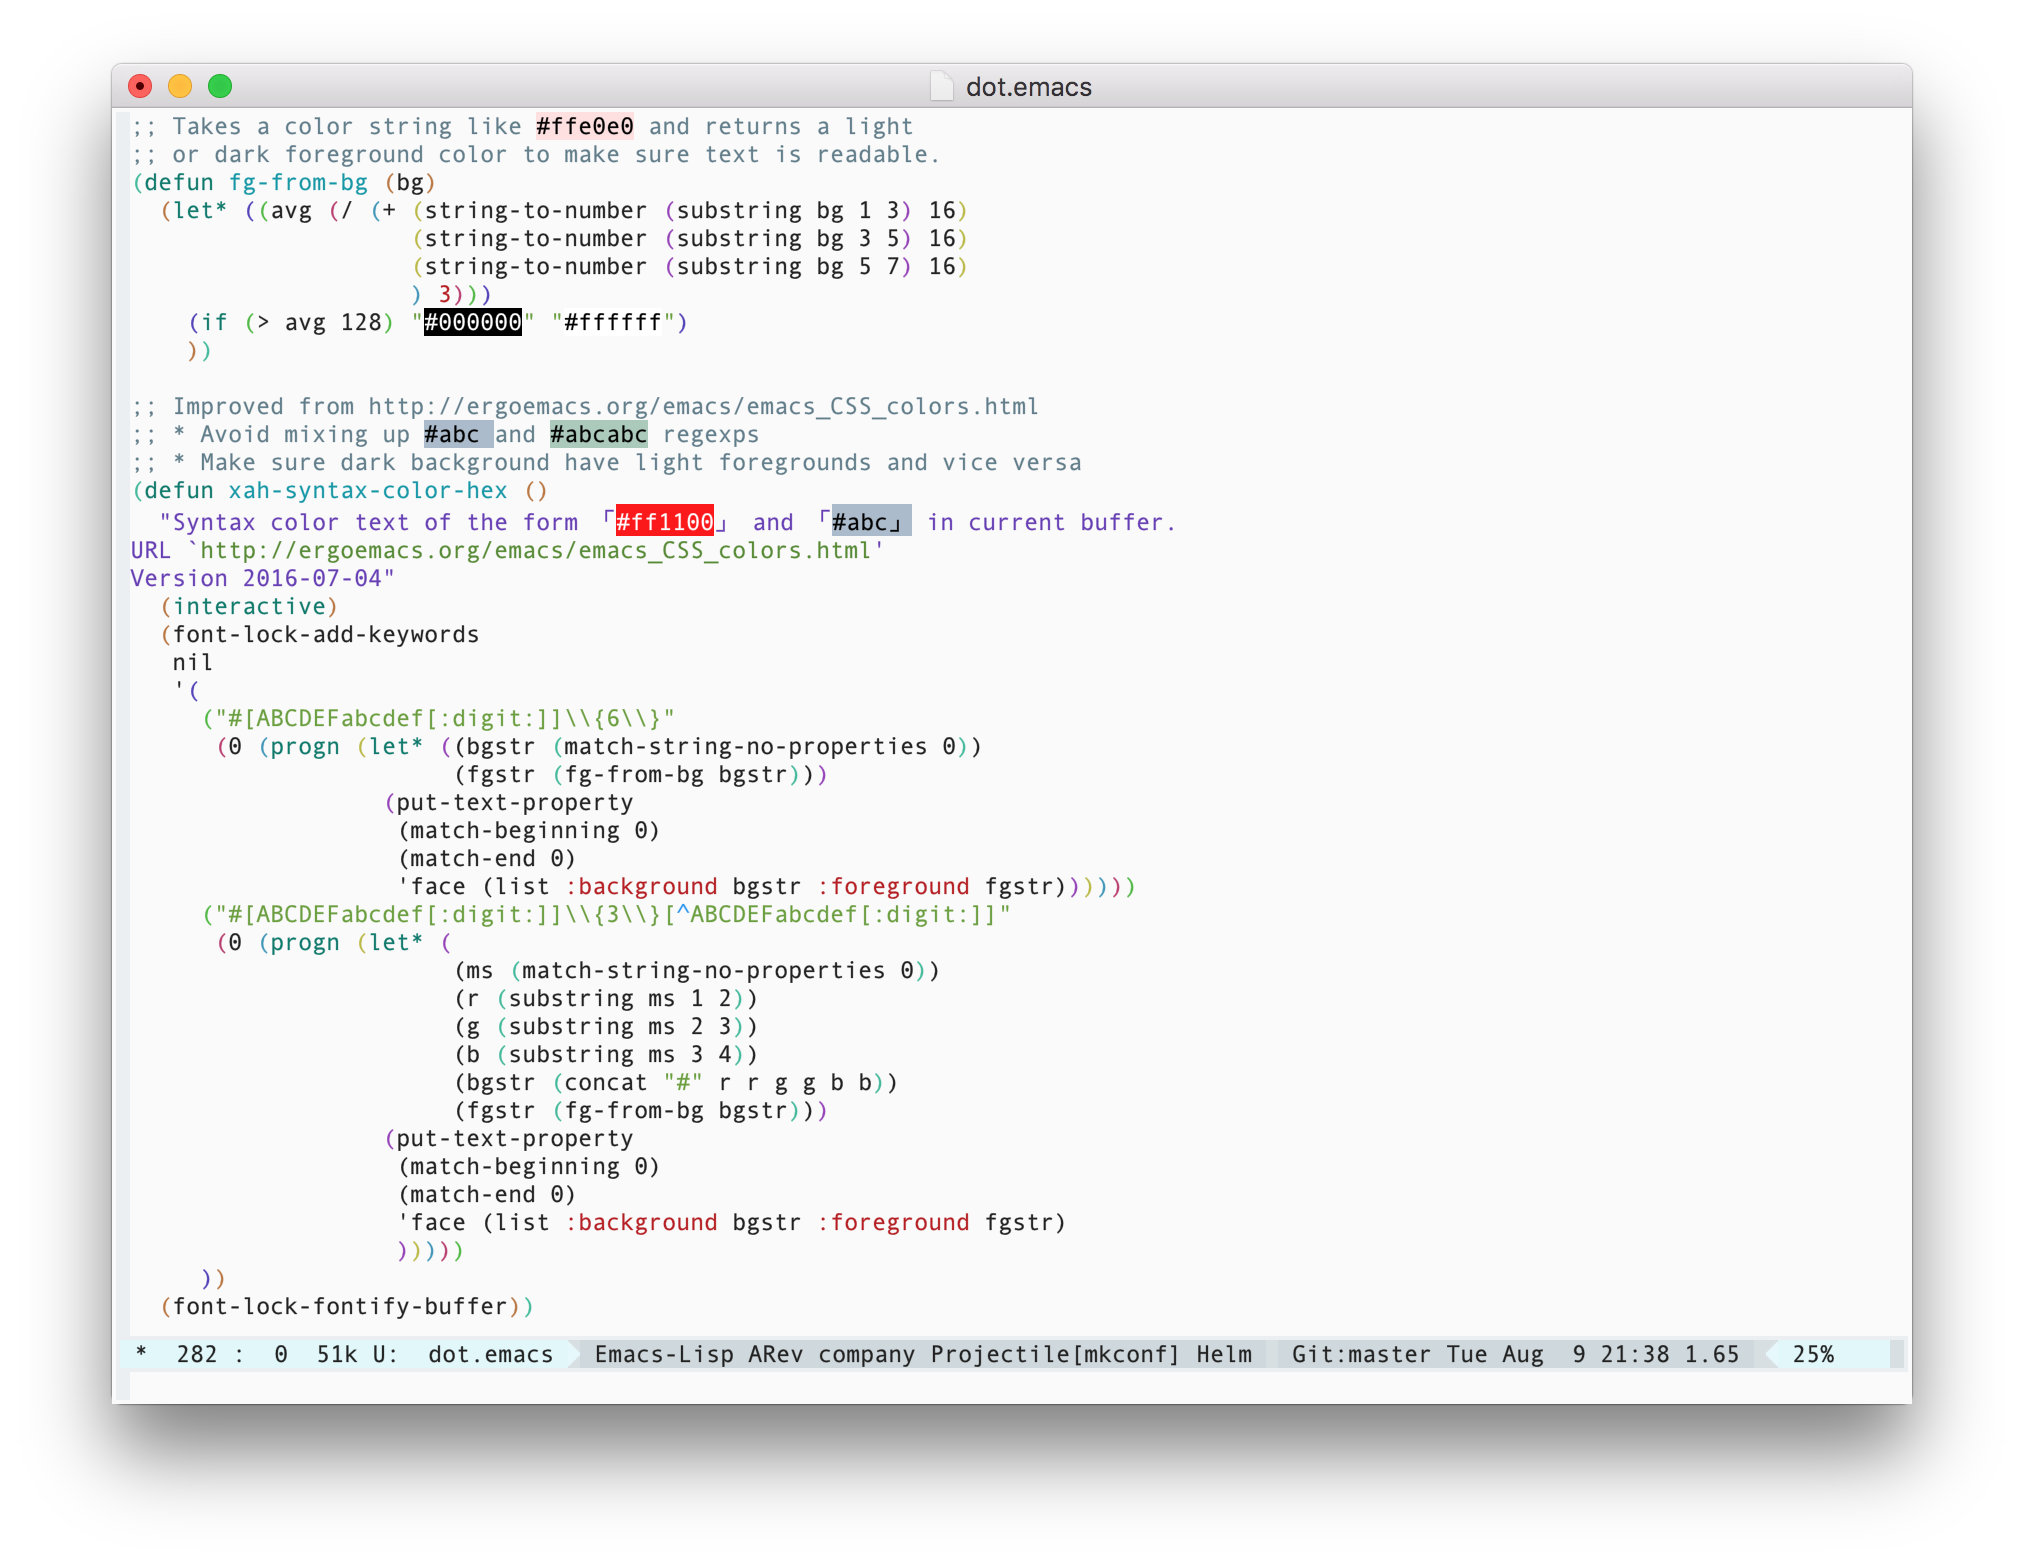
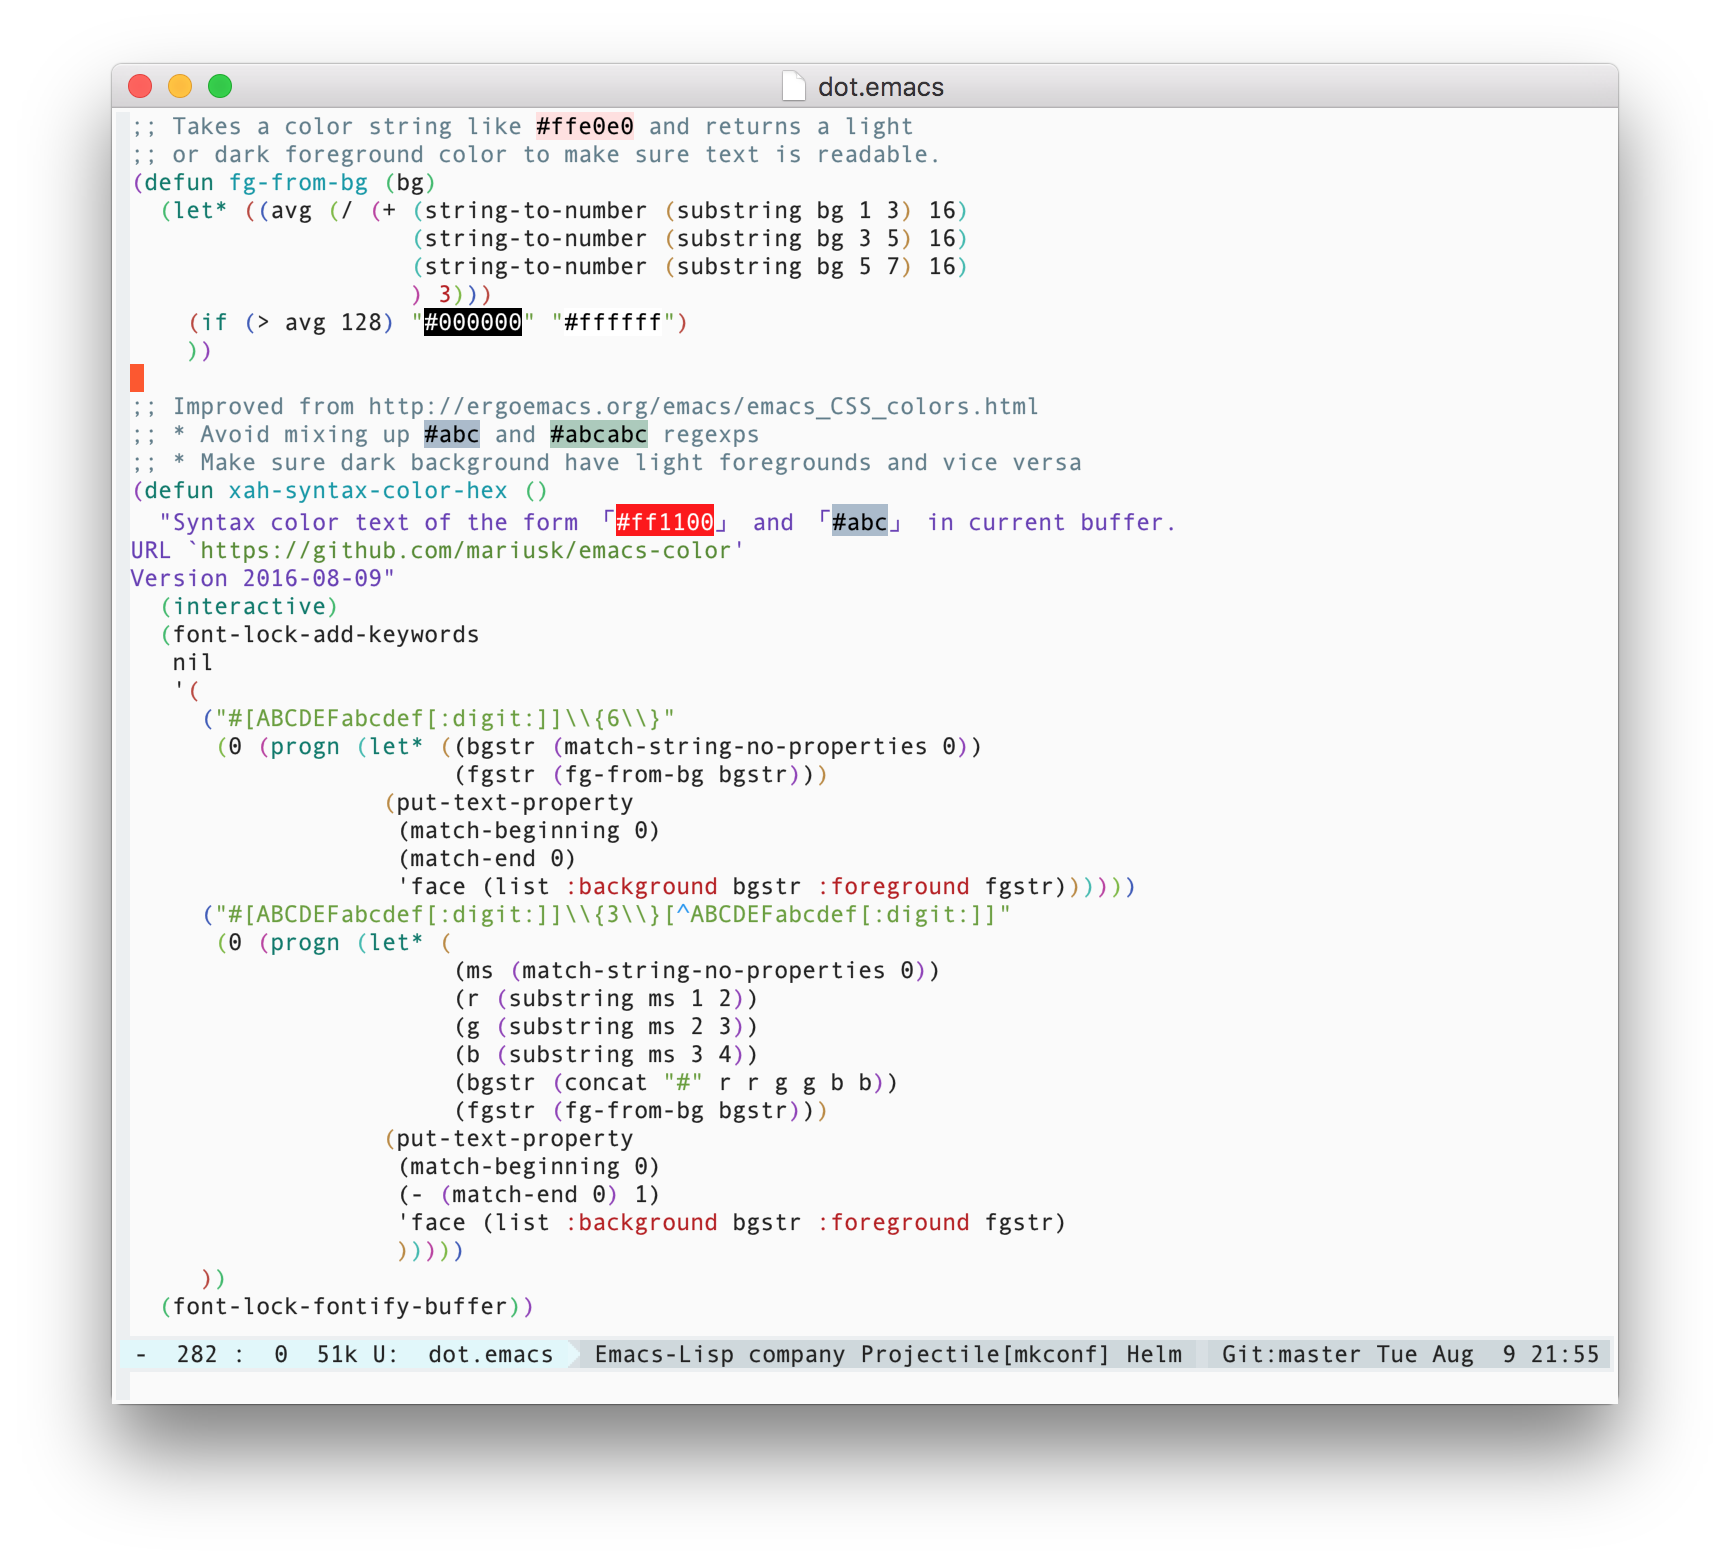
Fixed off-by-one error for #abc type matching.

Changed region(s): [[0.0312, 0.0307, 0.9676, 0.89], [0.6243, 0.3069, 0.6555, 0.3376], [0.5931, 0.2762, 0.6243, 0.3069]]

diff --git a/README.md b/README.md
@@ -75,7 +75,7 @@ Version 2016-08-09"
                        (fgstr (fg-from-bg bgstr)))
                   (put-text-property
                    (match-beginning 0)
-                   (match-end 0)
+                   (- (match-end 0) 1)
                    'face (list :background bgstr :foreground fgstr)
                    )))))
      ))
